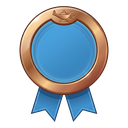
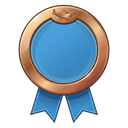
feat(badges): Competent, Proficient and Expert trophies; clear white inside handles
badge-cutout.py now also removes large enclosed patches of flat white (the
inside of trophy handles), keeping small highlights; every badge
reprocessed. Summit trophy held back: it drew a two-snake caduceus instead
of the Rod of Asclepius; fix prompt in BADGE_ART_REMAINING.md.

Changed region(s): [[0.125, 0.0312, 0.875, 0.6875], [0.2188, 0.5938, 0.7812, 0.9688]]

diff --git a/scripts/badge-cutout.py b/scripts/badge-cutout.py
@@ -11,8 +11,8 @@ A sheet with several badges (names in reading order: left to right, top row firs
 
 Writes <name>-512.png and <name>-128.png for each badge (transparent, square, trimmed with a small margin).
 
-How: flood-fill from the image border over near-white pixels (so white highlights inside a badge are kept), feather the
-cut edge, then find each badge as a separate island of non-white pixels. Specks smaller than 0.5% of the image are ignored,
+How: flood-fill from the image border over near-white pixels (so white highlights inside a badge are kept), also clear
+large enclosed patches of flat white (inside handles and loops), feather the cut edge, then find each badge as a separate island of non-white pixels. Specks smaller than 0.5% of the image are ignored,
 and pieces whose boxes overlap are merged (e.g. a sparkle drawn just off a badge).
 """
 import sys
@@ -41,6 +41,21 @@ def background_mask(im):
         for nx, ny in ((x + 1, y), (x - 1, y), (x, y + 1), (x, y - 1)):
             if 0 <= nx < w and 0 <= ny < h and not bg[ny * w + nx] and near_white(px[nx, ny]):
                 bg[ny * w + nx] = 1; q.append((nx, ny))
+    # Background sealed inside the art (e.g. inside a trophy handle) doesn't touch the border. Remove enclosed regions of
+    # flat, near-pure white that are large enough to be background, not a highlight: a highlight is small or shaded.
+    seen = bytearray(w * h)
+    min_hole = 0.0015 * w * h
+    for start in range(w * h):
+        if bg[start] or seen[start] or not near_white(px[start % w, start // w], lim=242): continue
+        region = [start]; seen[start] = 1; i = 0
+        while i < len(region):
+            x, y = region[i] % w, region[i] // w; i += 1
+            for nx, ny in ((x + 1, y), (x - 1, y), (x, y + 1), (x, y - 1)):
+                if 0 <= nx < w and 0 <= ny < h:
+                    j = ny * w + nx
+                    if not seen[j] and not bg[j] and near_white(px[nx, ny], lim=242): seen[j] = 1; region.append(j)
+        if len(region) >= min_hole:
+            for j in region: bg[j] = 1
     return bg
 
 

diff --git a/docs/phase-1/BADGE_ART_REMAINING.md b/docs/phase-1/BADGE_ART_REMAINING.md
@@ -1,7 +1,16 @@
 # Badge art: what's left to make
 
-**Done (2026-10-13):** all 5 rank medals and the Advanced Beginner trophy, in `public/badges/`.
-**Left:** 4 trophies and 27 accomplishment shields. Everything you need is on this page.
+**Done (2026-10-13):** all 5 rank medals and 4 of the 5 trophies (Advanced Beginner, Competent, Proficient, Expert), in
+`public/badges/`.
+**Left:** a fix to the Summit trophy and the 27 accomplishment shields. Everything you need is on this page.
+
+## Fix first: the Summit trophy
+The first Summit came out with **two snakes** on the staff (a caduceus), not the single-snake Rod of Asclepius. In the same
+chat, send:
+> Same summit trophy, but replace the engraved symbol on the cup with a Rod of Asclepius: a single snake coiled around a
+> single plain staff. Only one snake, no second snake, no wings. Keep everything else exactly the same.
+
+Save as `trophy-summit`.
 
 ## How to work
 - Use **Nano Banana (Gemini)**. Do each group in **one chat** so the shapes stay identical.
@@ -12,7 +21,7 @@
 
 ---
 
-## Part 1: the 4 remaining trophies
+## Part 1: the trophies (done except the Summit fix above; kept for reference)
 **Same chat as the Advanced Beginner trophy** (the bronze cup with blue bands), one prompt at a time.
 
 **1. Competent** → save as `trophy-competent`
@@ -133,6 +142,7 @@ in the centre [icon]."* using this list:
 ---
 
 ## Checklist
-- [ ] `trophy-competent`, `trophy-proficient`, `trophy-expert`, `trophy-summit`
+- [x] `trophy-competent`, `trophy-proficient`, `trophy-expert`
+- [ ] `trophy-summit` (single snake: see the fix at the top)
 - [ ] 27 shields (3 sheets, or 27 single images)
 - [ ] Every image: flat white background, no shadow or text
